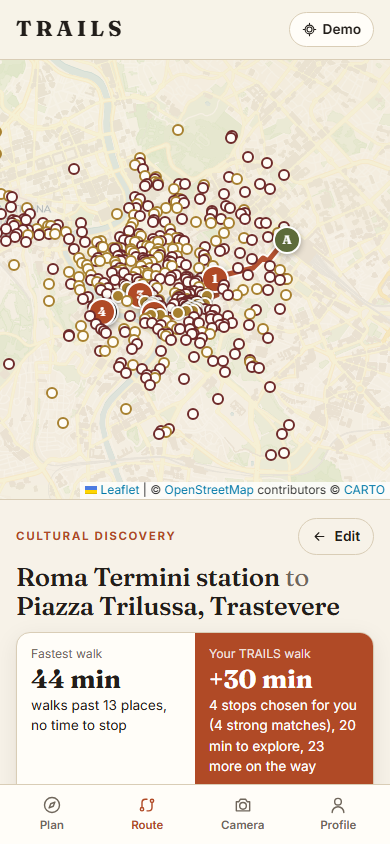
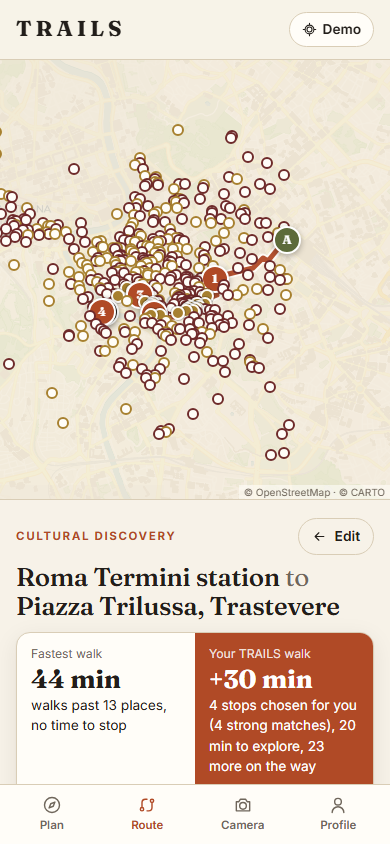
Phones: Demo no longer widens the page; short map credit
- turning Demo on added the scenario list to the header, which did not
  fit on a phone and made the whole page wider than the screen (maps and
  cards shifted sideways); on phones the list now lives only on the
  Profile screen, and the header cannot overflow
- map credit: no Leaflet prefix, one short line ("© OpenStreetMap ·
  © CARTO"), small and see-through; the OpenStreetMap and CARTO credits
  stay because their licences require them
- a custom VITE_TILE_URL (the public site uses OpenStreetMap's own tiles)
  now credits OpenStreetMap only instead of also naming CARTO
- checked iPhone 13, iPhone SE and Pixel 7 sizes with Demo on: page
  width equals the screen on Plan, Route, Camera and Profile

Changed region(s): [[0.1846, 0.5545, 1.0, 0.6161]]

diff --git a/src/components/MapView.tsx b/src/components/MapView.tsx
@@ -1,7 +1,7 @@
 import L from 'leaflet'
 import 'leaflet/dist/leaflet.css'
 import { useEffect, useMemo, useState } from 'react'
-import { MapContainer, Marker, Polyline, TileLayer, Tooltip, useMap, useMapEvents } from 'react-leaflet'
+import { AttributionControl, MapContainer, Marker, Polyline, TileLayer, Tooltip, useMap, useMapEvents } from 'react-leaflet'
 import type { RouteQuality } from '../lib/routing/types'
 import type { LatLon, Place } from '../lib/types'
 
@@ -13,8 +13,10 @@ const env = (import.meta as unknown as { env: Record<string, string | undefined>
 const CARTO_KEY = env.VITE_CARTO_KEY
 export const TILE_URL = env.VITE_TILE_URL ||
   `https://basemaps.cartocdn.com/rastertiles/voyager/{z}/{x}/{y}.png${CARTO_KEY ? `?key=${encodeURIComponent(CARTO_KEY)}` : ''}`
+// Short credit line (the licences require it); a custom tile URL is assumed to be plain OpenStreetMap tiles.
+const OSM_CREDIT = '&copy; <a href="https://www.openstreetmap.org/copyright">OpenStreetMap</a>'
 export const TILE_ATTRIBUTION = env.VITE_TILE_ATTRIBUTION ||
-  '&copy; <a href="https://www.openstreetmap.org/copyright">OpenStreetMap</a> contributors &copy; <a href="https://carto.com/attributions">CARTO</a>'
+  (env.VITE_TILE_URL ? OSM_CREDIT : `${OSM_CREDIT} &middot; &copy; <a href="https://carto.com/attributions">CARTO</a>`)
 
 function divIcon(html: string, size: number) {
   return L.divIcon({ html, className: '', iconSize: [size, size], iconAnchor: [size / 2, size / 2] })
@@ -82,10 +84,11 @@ export function MapView({ route, alt, stops = [], start, end, others = [], me, o
 
   return (
     <div className={className ?? 'map'}>
-      <MapContainer center={[41.8967, 12.4822]} zoom={15} style={{ position: 'absolute', inset: 0 }} zoomControl={false} attributionControl
+      <MapContainer center={[41.8967, 12.4822]} zoom={15} style={{ position: 'absolute', inset: 0 }} zoomControl={false} attributionControl={false}
         zoomAnimation={!still} fadeAnimation={!still} markerZoomAnimation={!still}>
         <TileLayer url={TILE_URL} attribution={TILE_ATTRIBUTION} maxZoom={19}
           eventHandlers={{ tileerror: () => setTileErrors((n) => n + 1) }} />
+        <AttributionControl position="bottomright" prefix={false} />
         <Fit pts={pts} fitKey={fitKey} />
         <Follow p={follow} />
         {onMapClick && <ClickCatcher onClick={onMapClick} />}

diff --git a/src/styles.css b/src/styles.css
@@ -71,8 +71,16 @@ button { font: inherit; color: inherit; }
 .page { max-width: 1120px; margin: 0 auto; padding: 24px 16px 96px; }
 .tabbar { display: none; }
 
+/* compact map credit: small and see-through */
+.leaflet-container .leaflet-control-attribution { font-size: 10px; line-height: 1.4; padding: 0 5px; background: rgba(255, 253, 248, 0.6); color: var(--muted); }
+.leaflet-container .leaflet-control-attribution a { color: inherit; }
+.demo-pill { white-space: nowrap; flex-shrink: 0; }
+
 @media (max-width: 760px) {
   .brand-tag, .nav { display: none; }
+  .header { overflow: hidden; }
+  /* the scenario list does not fit next to the logo; it is on the Profile screen */
+  .demo-scenario { display: none; }
   .demo-pill { margin-left: auto; }
   .tabbar {
     display: flex; position: fixed; bottom: 0; left: 0; right: 0; z-index: 1000;
@@ -347,6 +355,5 @@ input[type='range'] { width: 100%; accent-color: var(--terracotta); }
 .nav-sheet-body { overflow-y: auto; min-height: 0; overscroll-behavior: contain; transition: opacity 0.2s; }
 .nav-hidden { opacity: 0; pointer-events: none; }
 /* the map attribution stays readable in the strip under the sheet */
-.nav-screen .leaflet-control-attribution { font-size: 10px; }
 .nav-section { margin-top: 12px; }
 .nav-oneline { white-space: nowrap; overflow: hidden; text-overflow: ellipsis; }

diff --git a/src/App.tsx b/src/App.tsx
@@ -56,7 +56,7 @@ export default function App() {
           <Icon name="locate" size={15} /> Demo{demo ? ' on' : ''}
         </button>
         {demo && (
-          <select aria-label="Demo scenario" value={scenario.id} style={{ width: 'auto', maxWidth: 190, padding: '6px 8px', fontSize: '0.8rem' }}
+          <select className="demo-scenario" aria-label="Demo scenario" value={scenario.id} style={{ width: 'auto', maxWidth: 190, padding: '6px 8px', fontSize: '0.8rem' }}
             onChange={(e) => setScenario(DEMO_SCENARIOS.find((s) => s.id === e.target.value)!)}>
             {DEMO_SCENARIOS.map((s) => <option key={s.id} value={s.id}>{s.label}</option>)}
           </select>
